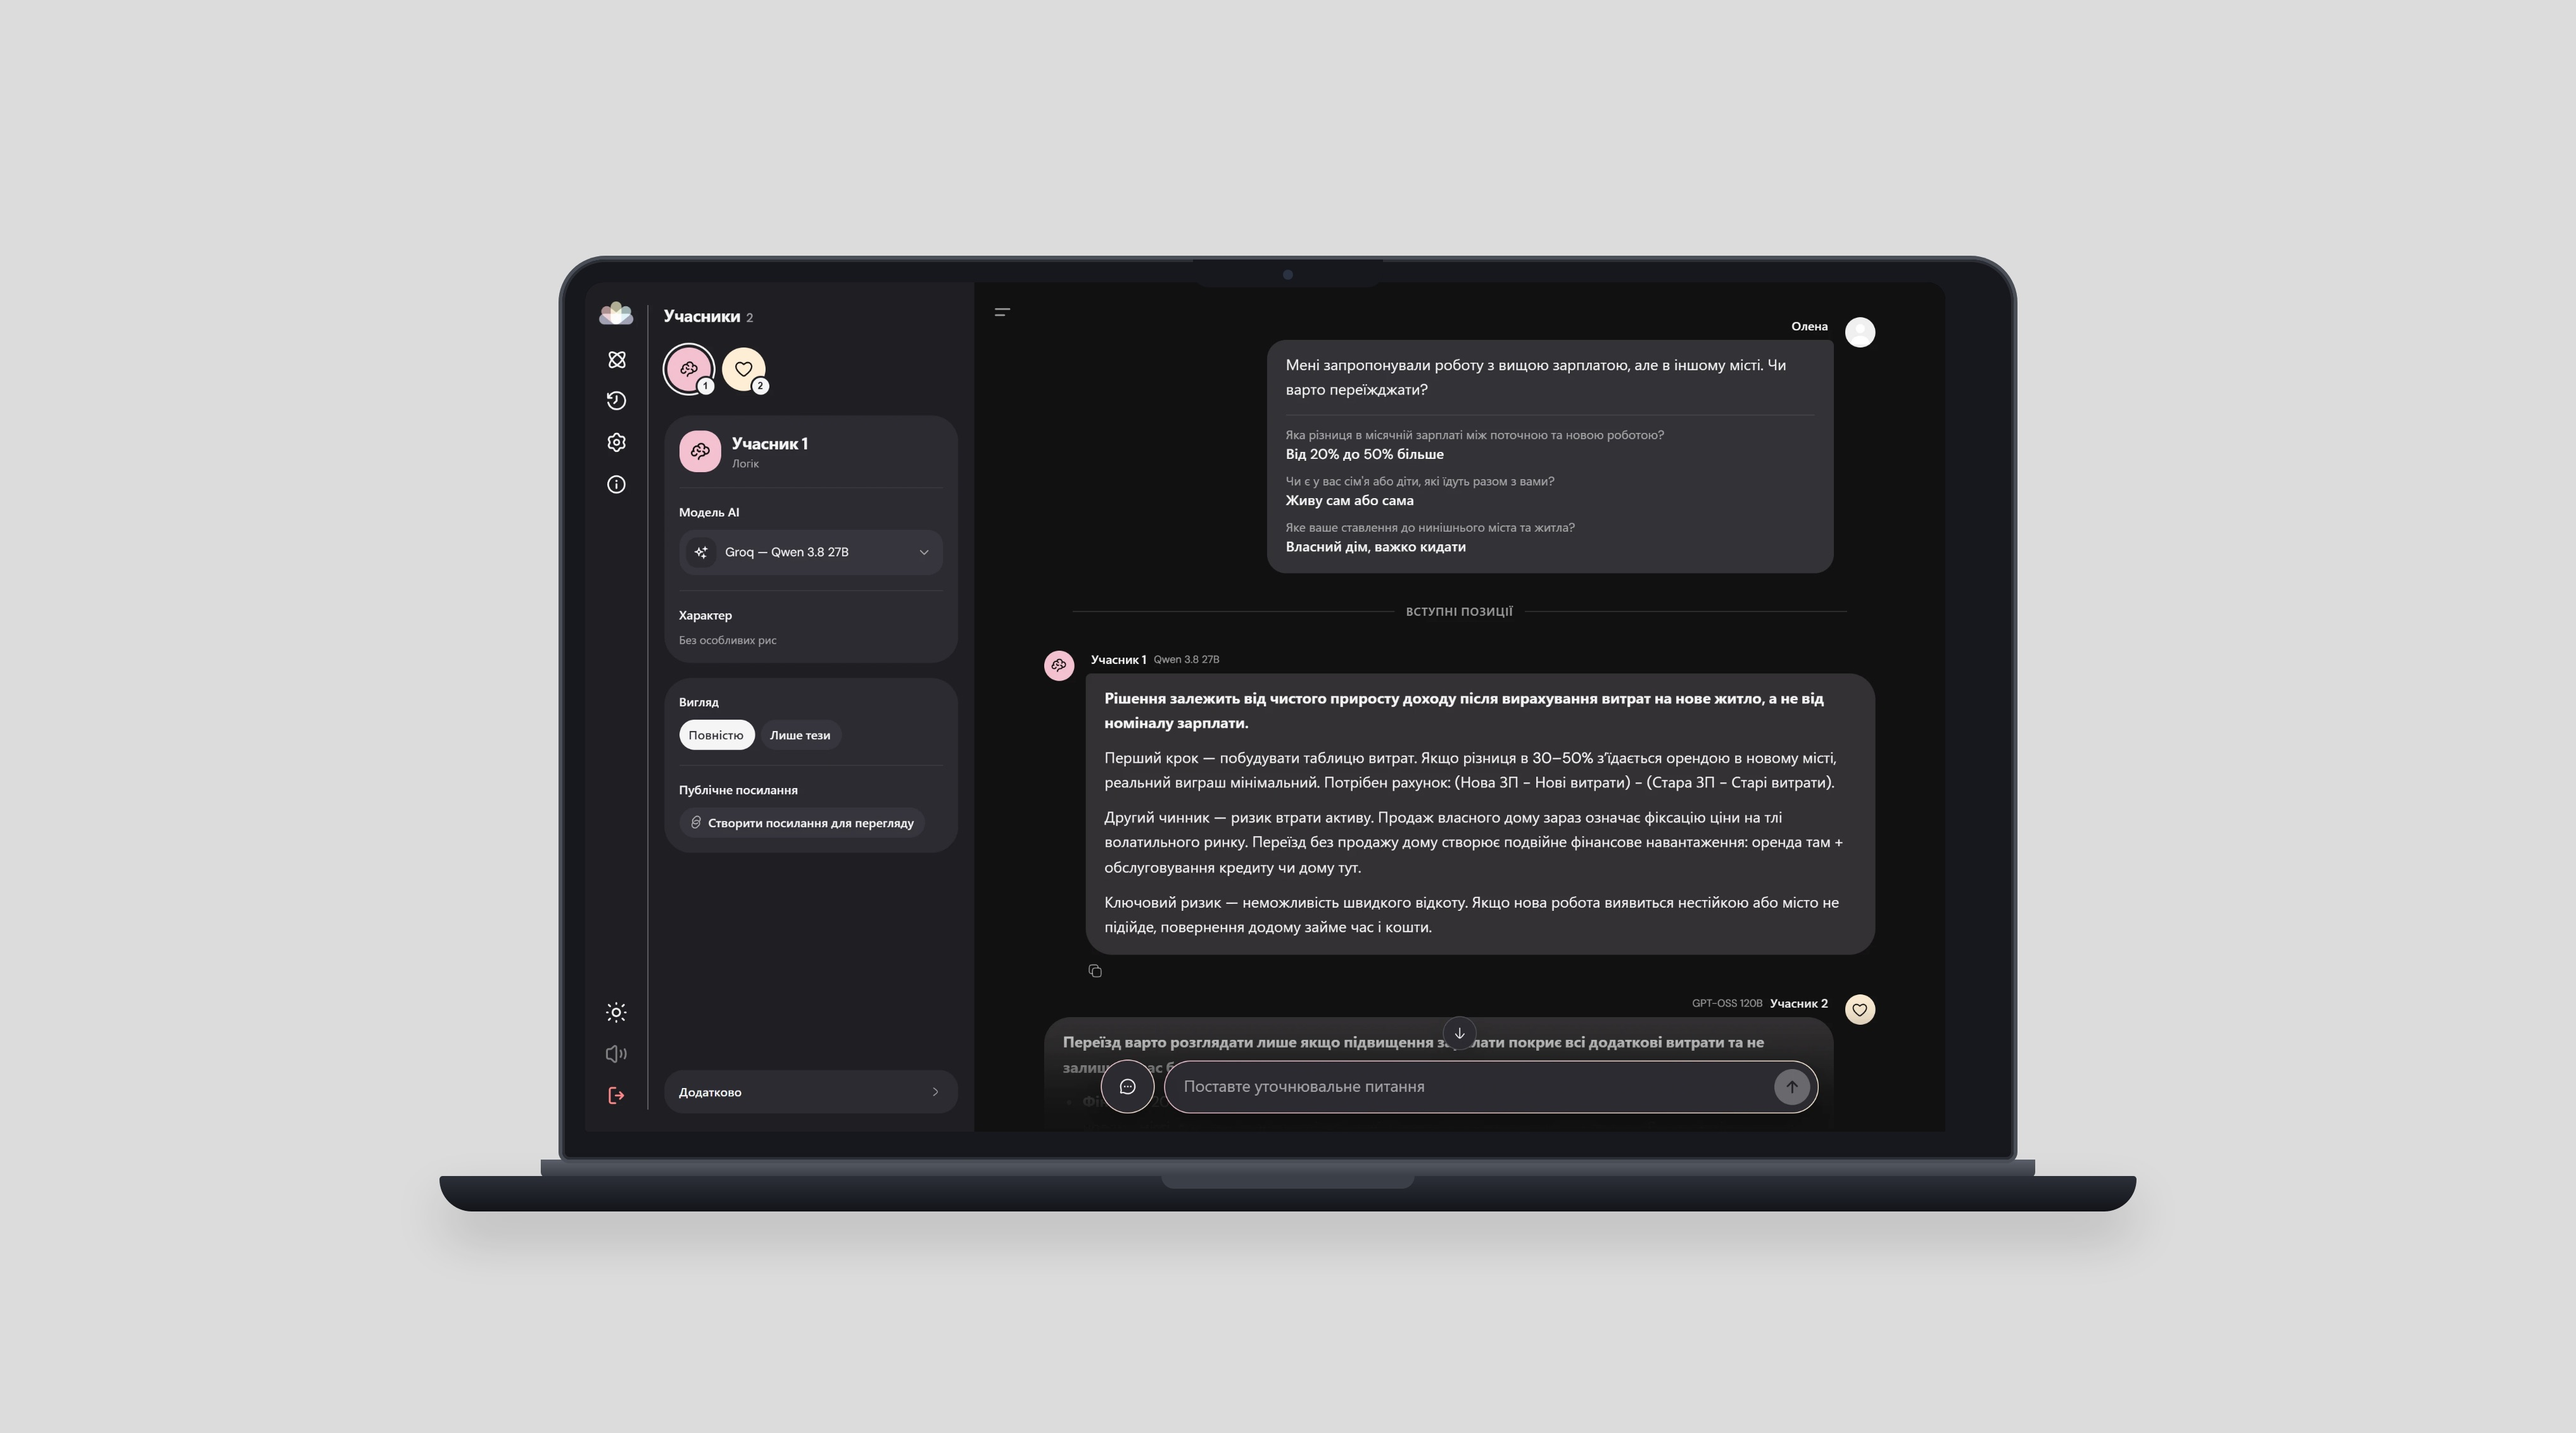
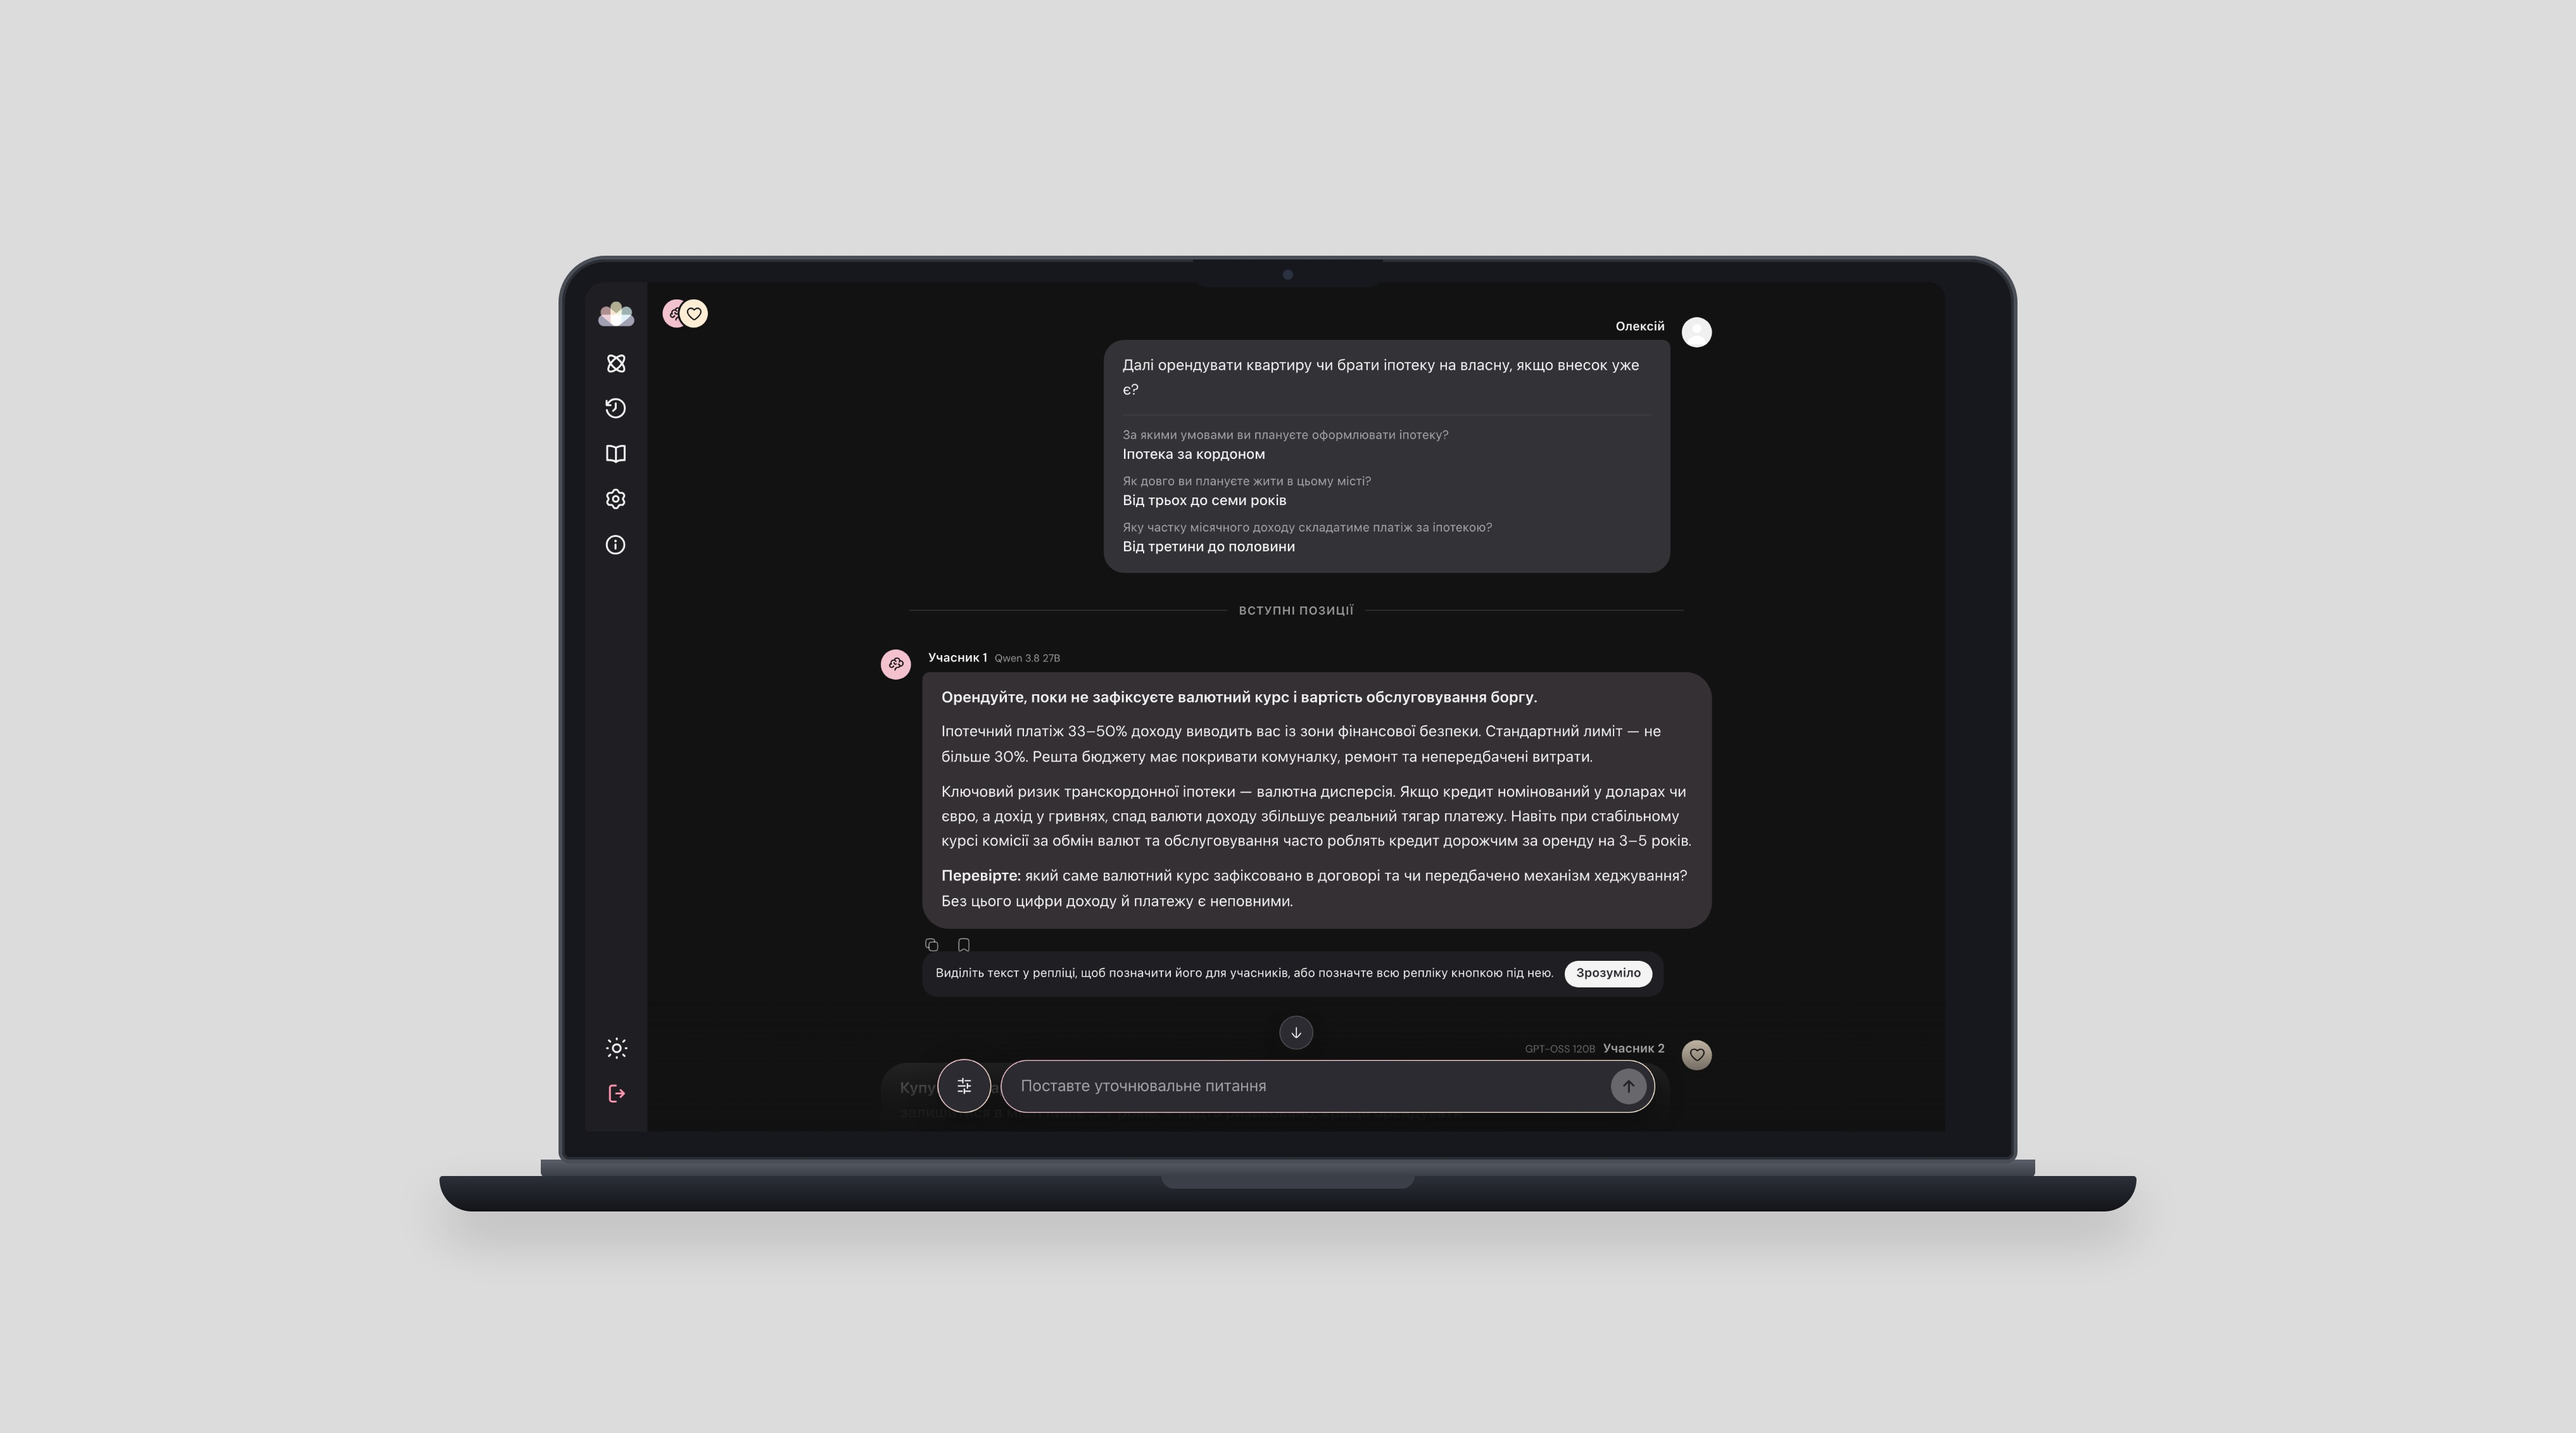
Refresh Vector and Clarity screenshots with the current interfaces

Changed region(s): [[0.2498, 0.1855, 0.7493, 0.8039], [0.4059, 0.2164, 0.7493, 0.4019]]

diff --git a/src/projects.js b/src/projects.js
@@ -5,14 +5,18 @@ export const PROJECTS = [
     slug: "vector",
     label: "Vector",
     year: "2026",
-    cover: "projects/vector.png",
+    cover: "projects/vector.jpg",
     stack: ["Django", "DRF", "Channels", "Celery", "Redis", "React", "SimpleJWT"],
     links: { github: "https://github.com/ttjelky/vector" },
     gallery: [
-      [{ src: "projects/vector/dashboard.jpg", w: 2000, h: 973 }],
+      [{ src: "projects/vector/landing.jpg", w: 2000, h: 1250 }],
       [
-        { src: "projects/vector/tournament.jpg", w: 2000, h: 977 },
-        { src: "projects/vector/mobile.jpg", w: 988, h: 1200 },
+        { src: "projects/vector/tournament.jpg", w: 2000, h: 1250 },
+        { src: "projects/vector/rounds.jpg", w: 2000, h: 1250 },
+      ],
+      [
+        { src: "projects/vector/m-dashboard.jpg", w: 647, h: 1400, phone: true },
+        { src: "projects/vector/m-tournament.jpg", w: 647, h: 1400, phone: true },
       ],
     ],
   },
@@ -33,10 +37,14 @@ export const PROJECTS = [
     stack: ["Django", "DRF", "React", "Vite", "LLM APIs", "Vercel", "Render"],
     links: { live: "https://clarity-three-xi.vercel.app/" },
     gallery: [
-      [{ src: "projects/clarity/debate.webp", w: 2880, h: 1800 }],
+      [{ src: "projects/clarity/verdict.jpg", w: 2000, h: 1250 }],
       [
-        { src: "projects/clarity/verdict.webp", w: 2880, h: 1800 },
-        { src: "projects/clarity/devil.webp", w: 2880, h: 1800 },
+        { src: "projects/clarity/home.jpg", w: 2000, h: 1250 },
+        { src: "projects/clarity/journal.jpg", w: 2000, h: 1250 },
+      ],
+      [
+        { src: "projects/clarity/m-home.jpg", w: 647, h: 1400, phone: true },
+        { src: "projects/clarity/m-chat.jpg", w: 647, h: 1400, phone: true },
       ],
     ],
   },
